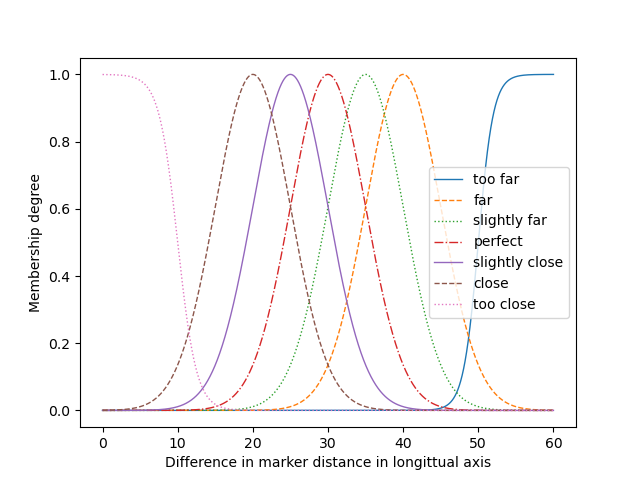
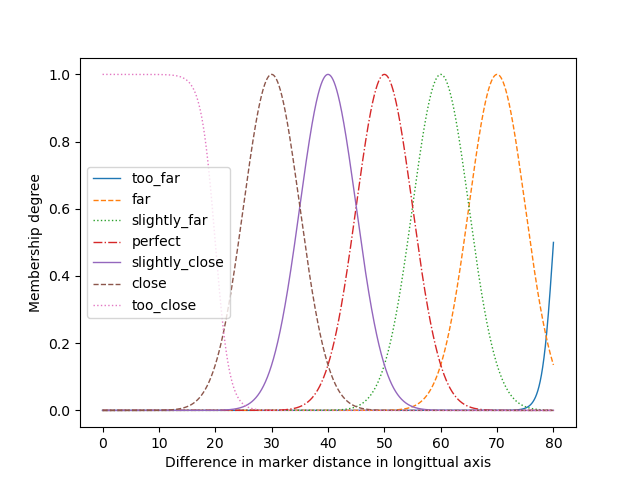
change in z control

diff --git a/main.py b/main.py
@@ -1,25 +1,35 @@
 from djitellopy import Tello
 import cv2 as cv
 from Arucodetector import Arucodetector
-
+import simpful as sf
 def main():
-    try:
-        drone = Arucodetector()
-        drone.Setup()
-        drone.ConnectDrone()
-        drone.Run()
-        # drone.connect()
-        # drone = Tello()
-        # drone.streamon()
-        # while 27 != cv.waitKey(10):
-            # frame_read = drone.get_frame_read()
-            # img = frame_read.frame
-            # cv.imshow("Stream", img)
-            # print(drone.get_speed_x(), drone.get_speed_y(), drone.get_speed_z())
-    except Exception as e:
-        print(e)
-    finally:
-        drone.End()
-        # cv.destroyAllWindows()
+    # try:
+    #     drone = Arucodetector()
+    #     drone.Setup()
+    #     drone.ConnectDrone()
+    #     drone.Run()
+    #     # drone.connect()
+    #     # drone = Tello()
+    #     # drone.streamon()
+    #     # while 27 != cv.waitKey(10):
+    #         # frame_read = drone.get_frame_read()
+    #         # img = frame_read.frame
+    #         # cv.imshow("Stream", img)
+    #         # print(drone.get_speed_x(), drone.get_speed_y(), drone.get_speed_z())
+    # except Exception as e:
+    #     print(e)
+    # finally:
+    #     drone.End()
+    #     # cv.destroyAllWindows()
+        Outputs_Z = []
+        Outputs_Z.append(sf.FuzzySet(points=[[-0.5, 1.0], [-0.3, 0.0]], term = "fast_reverse"))
+        Outputs_Z.append(sf.FuzzySet(function=sf.Triangular_MF(-0.5, -0.3, -0.1), term = "reverse"))
+        Outputs_Z.append(sf.FuzzySet(function=sf.Triangular_MF(-0.3, -0.1, -0.0), term = "slow_reverse"))
+        Outputs_Z.append(sf.FuzzySet(function=sf.Gaussian_MF(0, 0.1), term = "stop"))
+        Outputs_Z.append(sf.FuzzySet(function=sf.Triangular_MF(0.0, 0.1, 0.3), term = "slow_forward"))
+        Outputs_Z.append(sf.FuzzySet(function=sf.Triangular_MF(0.1, 0.3, 0.5), term = "forward"))
+        Outputs_Z.append(sf.FuzzySet(points=[[0.3, 0.0], [0.5, 1.0]], term = "fast_forward"))
+        lv_Z = sf.LinguisticVariable(Outputs_Z, concept = "Velocity in longitual(z) axis", universe_of_discourse = [-0.5, 0.5])
+        lv_Z.plot()
 if __name__ == '__main__':
     main()

diff --git a/Controller.py b/Controller.py
@@ -94,7 +94,7 @@ class DroneController:
         Outputs_Z.append(sf.FuzzySet(points=[[-0.5, 1.0], [-0.3, 0.0]], term = "fast_reverse", verbose = self.GetLog()))
         Outputs_Z.append(sf.FuzzySet(function=sf.Triangular_MF(-0.5, -0.3, -0.1), term = "reverse", verbose = self.GetLog()))
         Outputs_Z.append(sf.FuzzySet(function=sf.Triangular_MF(-0.3, -0.1, -0.0), term = "slow_reverse", verbose = self.GetLog()))
-        Outputs_Z.append(sf.FuzzySet(function=sf.Gaussian_MF(0, 0.2), term = "stop", verbose = self.GetLog()))
+        Outputs_Z.append(sf.FuzzySet(function=sf.Gaussian_MF(0, 0.1), term = "stop", verbose = self.GetLog()))
         Outputs_Z.append(sf.FuzzySet(function=sf.Triangular_MF(0.0, 0.1, 0.3), term = "slow_forward", verbose = self.GetLog()))
         Outputs_Z.append(sf.FuzzySet(function=sf.Triangular_MF(0.1, 0.3, 0.5), term = "forward", verbose = self.GetLog()))
         Outputs_Z.append(sf.FuzzySet(points=[[0.3, 0.0], [0.5, 1.0]], term = "fast_forward", verbose = self.GetLog()))
